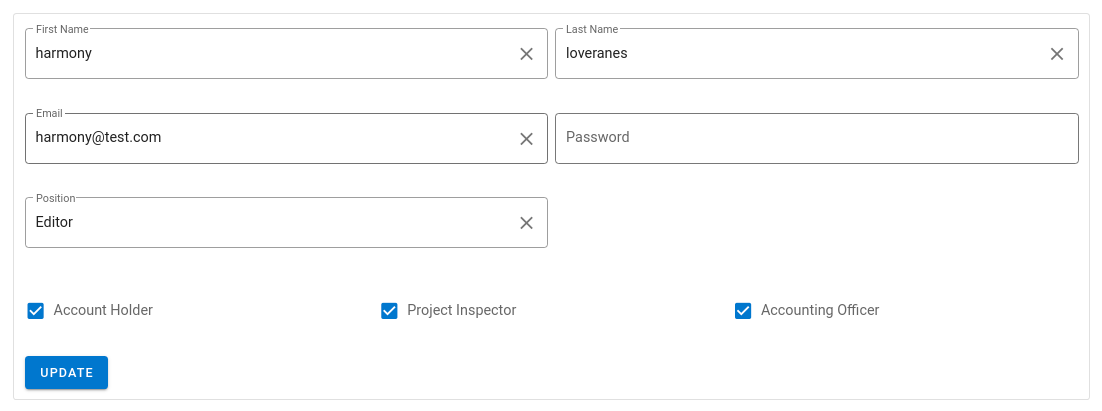
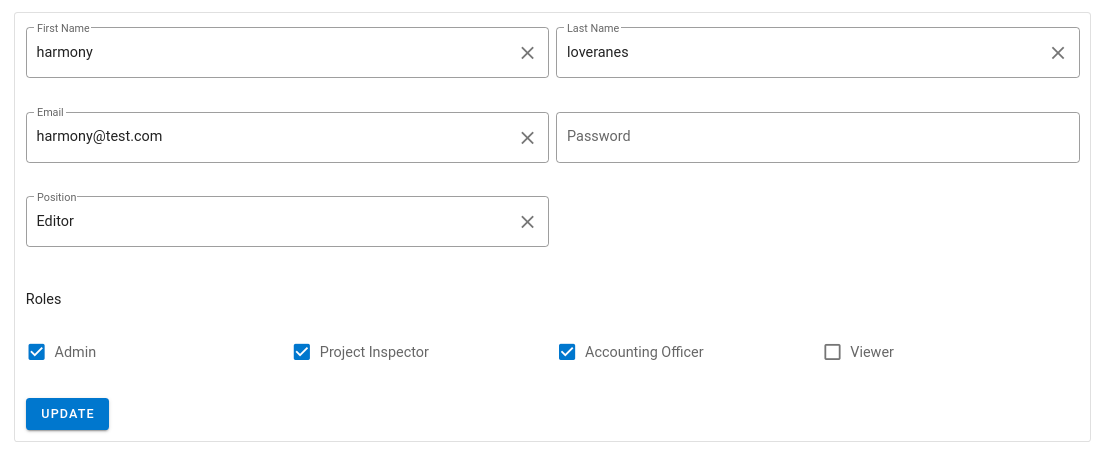
uncheck data-input contents and roles

diff --git a/docs/input/README.md b/docs/input/README.md
@@ -48,30 +48,26 @@ Below are role(s) that can be revoke or add. You can update the user and alter a
 
 ![update-user-account-field](/images/settings/account/update_user_account_field.png)
 
-#### Accounting Holder (admin)
+#### Admin
 
-Input financial data, Fund Source, Expenditure Source 
+Has the full capability to add/revoke any permission to a user.
 
 #### Project Inspector
 
-Able to view contracts, projects
+Responsible for creating, updating contract that he/she is assigned.
 
 #### Accounting Officer
 
+Responsible for handling incoming and outgoing total financial funds, budget, and budget source to allocate in the project.
+
 #### Financial Encoder
+
+Responsible for handling/inputting financial related information and adding record(s).
 
 #### Engineering Personnel
 
+Responsible for deploying and managing manpower personnel to be or assigned to the project(s).
+
 #### Viewer
 
-Able to view allocated budget, generate report, and total remaining funds.
-
-> Discuss the different roles here.
-
-admin, project in charge, financial encoder, viewer
-
-financial encoder
-
->inputs ng mga financial related informations
-
-project in charge, pra s pagcreate ng mga contract,  update ng contract kung sila yung naka assign doon etc
+Able to browse around projects, contracts and view related details to it.
